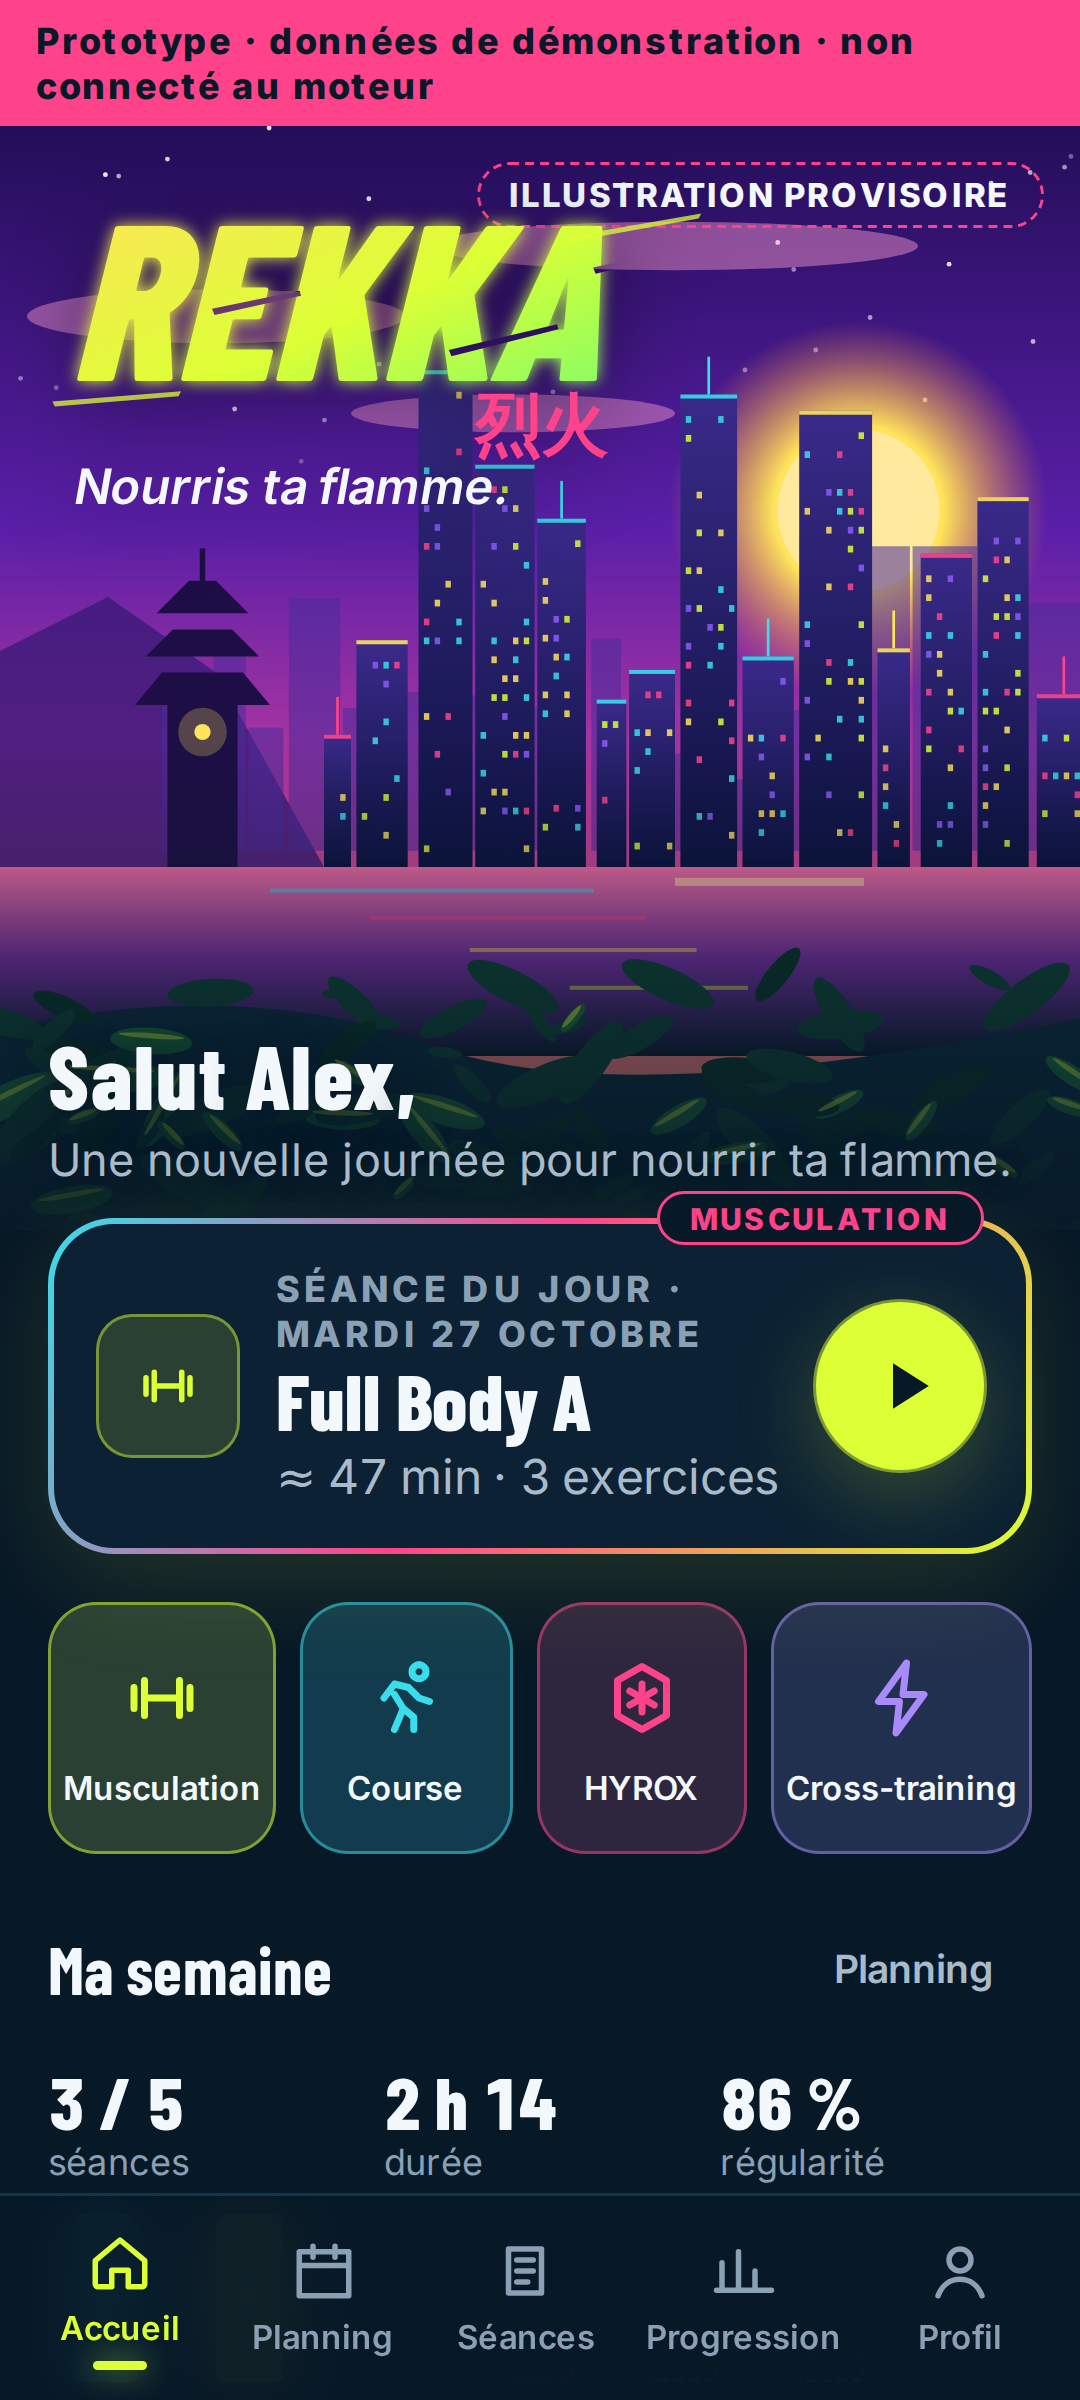
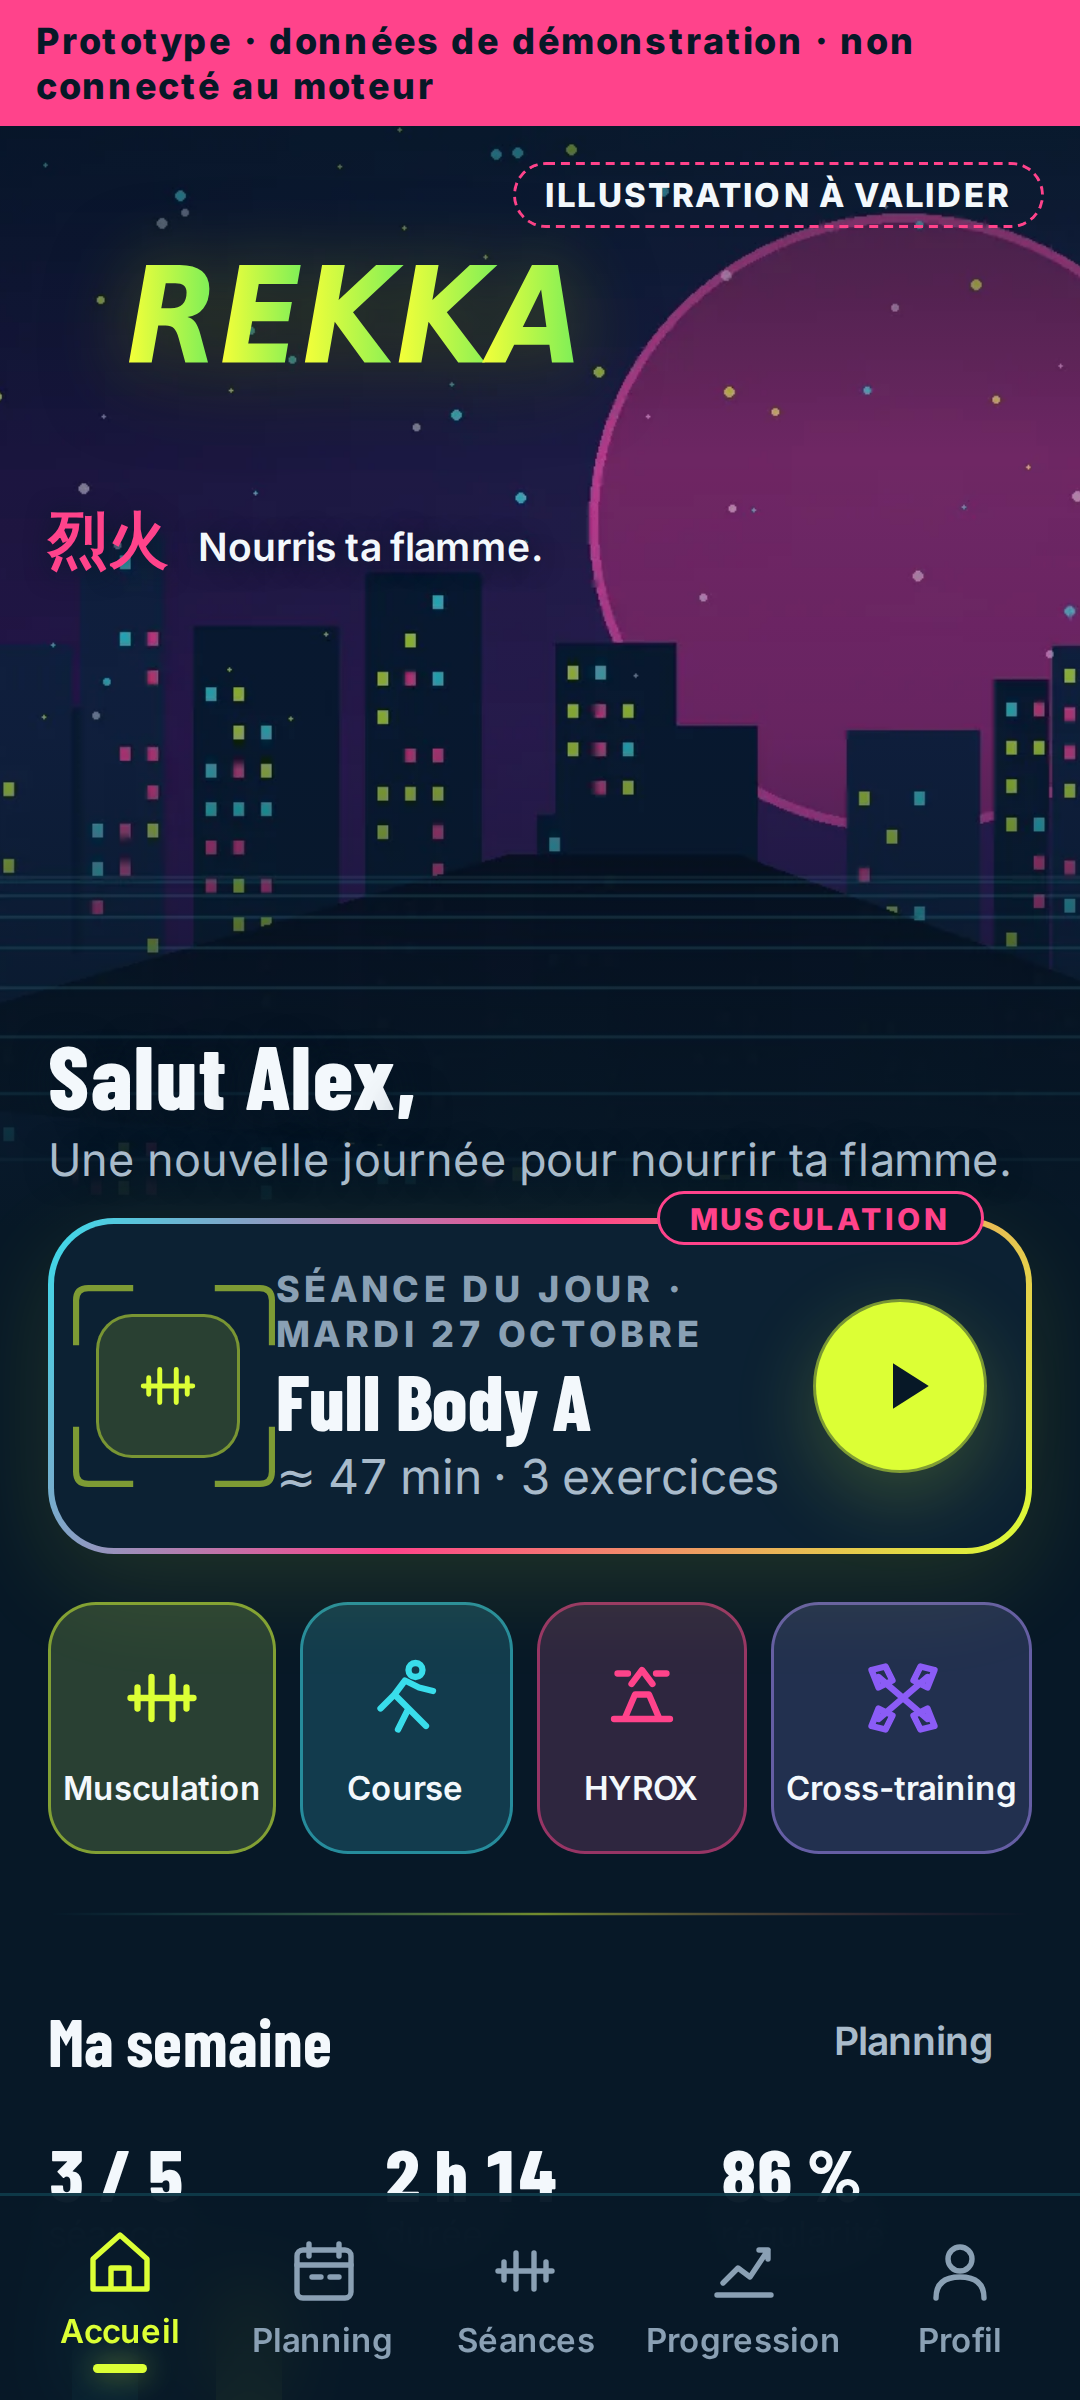
REKKA V2-2B.9 : captures 360/390 avec le kit, bilan d'intégration des assets (intégrés / non intégrés / à valider), écarts avec la planche, vérifications, ouverture sur Android
Claude-Session: https://claude.ai/code/session_01FT1pGqExFGTooyedVrCs5F

diff --git a/docs/kairo/REKKA-V2.md b/docs/kairo/REKKA-V2.md
@@ -309,3 +309,84 @@ Les visuels définitifs doivent être **originaux** : aucune reprise d'Edgerunne
 | `v2-{360,390}-08-profil.png` | Profil |
 
 **Arrêt :** aucune publication, aucune intégration dans l'application, RC5.4 non repris. J'attends votre retour visuel.
+
+## V2-2B (suite) — Intégration du kit `REKKA_V2_ASSETS`
+
+- **Source :** archive `REKKA_V2_ASSETS.zip`, avec `README`, `INTEGRATION_CLAUDE.md` et `PROMPT_CLAUDE.md`. La planche de `references/` est la référence artistique officielle.
+- **Règle appliquée :** les écrans restent de **vrais composants React/CSS**. Les PNG de référence ne sont ni copiés dans le dépôt ni affichés. Aucune image ne contient de texte ou d'interface.
+- **Garanties :**
+  - moteurs, contrats de données, RC5.3 et RC5.4 intacts ;
+  - BÊTA et production inchangées, aucun déploiement ;
+  - thème historique par défaut, V2 seulement avec `VITE_REKKA_THEME=v2` ou le prototype.
+- **Les captures `docs/kairo/captures/v2-2b/` montrent désormais l'état avec le kit.** Les tableaux « Inventaire » et « Écarts » ci-dessus décrivent l'état antérieur ; l'état courant est décrit ci-dessous.
+
+### Commits
+
+| Commit | Sous-lot | Contenu |
+|---|---|---|
+| `516bfe4` | V2-2B.6 Assets | Kit copié dans `apps/kairo/src/assets/rekka-v2/`, avec un `README` de provenance. Module unique `src/design/assets.tsx` (`Logo`, `MaskIcon`, `ArtImage`, `NAV_ICONS`, `UI_ICONS`, `BADGES`, `DECORATIONS`, `ART`). Pictogrammes de discipline du kit. Test d'inventaire et de sûreté des SVG. |
+| `df46c99` | V2-2B.7 Écrans | Détail ci-dessous. Scène vectorielle et logo provisoires supprimés. |
+| `9a6efd1` | V2-2B.8 Tests et page autonome | Tests DOM et E2E adaptés **sans retrait d'assertion de fond** : chaque assertion « provisoire » est remplacée par une vérification de l'asset réel. Build `PROTO_SINGLE=1` qui intègre les images. |
+
+Détail de V2-2B.7 :
+- **Accueil :**
+  - bandeau `accueil-cyberpunk`, avec voile et fond dégradé de repli ;
+  - logo SVG ;
+  - 烈火 en **texte** avec une police CJK, `lang="ja"` ;
+  - devise en HTML.
+- **Planning, Progression, Profil :** en-têtes `objectifs-rpg`.
+- **Séance :** bandeau `bilan-performance` ; chrono, pause et validation du kit.
+- **Navigation :** 5 pictogrammes du kit en masque `currentColor`.
+- **Badges :** badges du kit ; verrouillé = grisé **et** « À venir » écrit.
+- **Décorations :** cadre d'angle autour du pictogramme du jour, séparateur néon.
+- **Progression :** filtres défilables avec accroche, fondu et cibles de 44 px.
+
+### Assets : intégrés / non intégrés / à valider
+
+| Asset du kit | Statut | Où / pourquoi |
+|---|---|---|
+| `logos/rekka-logo-primary.svg` | **Intégré, forme à valider** | Accueil, via `Logo` : point unique de remplacement. Le dessin est une capitale italique grasse vectorisée, **pas le trait au pinceau de la planche**. |
+| `logos/rekka-logo-white.svg`, `rekka-logo-dark.svg` | Disponibles, non affichés | Exposés par `Logo variant` ; aucun écran du prototype n'en a besoin |
+| `logos/rekka-mark.svg` | **Non intégré, à valider** | Se lit comme un « P » à petite taille. **L'icône PWA publiée n'est pas modifiée.** |
+| `logos/rekka-kanji-symbol.svg` | **Non intégré** | Interprétation stylisée qui **ne se lit pas comme 烈火**. Le texte exact est affiché en police CJK. |
+| `icons/sports/*.svg` (4) | **Intégré** | `SportIcon` partout ; nom accessible conservé |
+| `icons/navigation/` accueil, planning, séances, progression, profil | **Intégré** | Barre d'onglets, masque `currentColor` |
+| `icons/navigation/` chrono, pause, check, record | **Intégré** | Séance (chronomètre, pause, repos, validation), titre « Records confirmés » |
+| `badges/*.svg` (4) | **Intégré** (3 affichés) | Jalons et onglet Badges. En production : **seulement sur données réelles vérifiées**. `premiere-seance` est disponible mais n'a pas de jalon de démonstration. |
+| `decorations/corner-frame.svg`, `neon-divider.svg` | **Intégré** | Opacité ≤ 0,6, `pointer-events: none`, jamais sur un texte ni une commande (vérifié en E2E) |
+| `decorations/grid-pattern.svg`, `quest-progress.svg` | **Non intégré** | Trame : gêne la lisibilité des cartes denses. Barre de quête : aucun écran de quête dans ce lot. |
+| `illustrations/accueil-cyberpunk.webp` | **Intégré, à valider** | Bandeau d'Accueil, étiquette « Illustration à valider » |
+| `illustrations/objectifs-rpg.webp` | **Intégré, à valider** | En-têtes Planning, Progression, Profil |
+| `illustrations/bilan-performance.webp` | **Intégré, à valider** | Bandeau de Séance et en-tête Séances |
+| `palette.json` | Copié | Conforme aux jetons `--r-*` du lot V2-1 |
+| `references/*.png` | **Non copiés** | Références visuelles uniquement |
+
+**Les trois illustrations ne sont pas déclarées finales.** Leur rendu est plat et géométrique : lune, immeubles en blocs, montagnes, anneau. Elles n'ont **ni personnage ni rendu anime**, contrairement à l'univers validé. Elles posent une ambiance correcte mais ne remplacent pas les peintures de la planche.
+
+### Écarts restants avec la planche
+
+| Écran | Écart |
+|---|---|
+| Accueil | Pas de personnage. Logo non calligraphié. 烈火 et la devise en typographie, sans écriture manuscrite. |
+| Planning | Bandeau d'ambiance au lieu du paysage détaillé. Le reste est conforme : légende supprimée, états écrits, liste et grille. |
+| Séance | Bandeau d'illustration ajouté (absent de la maquette), sous un voile ; mention « simulation » conservée. |
+| Progression | Conforme dans sa structure ; jalons ajoutés sous les records. |
+| Profil | Avatar provisoire (initiale). Pas de « Niveau 28 » ni d'XP, volontairement. Visuels « Mes disciplines » = pictogrammes. |
+
+### Vérifications
+
+| Vérification | Résultat |
+|---|---|
+| E2E prototype 360 et 390 px | **92 vérifications OK**, dont :<br>• logo SVG et WebP chargés ;<br>• aucune image PNG ni capture ;<br>• décorations sans capture des touchers ;<br>• bouton principal non masqué ;<br>• onglets ≥ 44 px ;<br>• filtres défilables ≥ 44 px ;<br>• badge verrouillé grisé et écrit ;<br>• série en cours visible au-dessus du repos ;<br>• aucun défilement horizontal ;<br>• aucune requête externe, aucun stockage, aucune erreur |
+| Tests DOM et assets | 17 / 17 : isolation, assets réels, 烈火 en texte, badges, sûreté des SVG (ni script, ni `href`, ni URL externe), WebP ≤ 150 Ko |
+| Page autonome (`pnpm proto:single`, 561 Ko) en `file://` | 0 erreur, 0 requête réseau, polices et images chargées |
+| E2E de l'application (thème historique) | ✓ 303 vérifications |
+| `pnpm check` | ✓ 3 024 tests réussis, 2 ignorés, 0 échec |
+
+### Ouvrir le prototype sur Android
+
+1. Télécharger `rekka-v2-prototype.html`, un fichier unique sans dépendance.
+2. L'ouvrir avec Chrome. Depuis « Fichiers », faire « Ouvrir avec → Chrome ». Si Chrome ne propose pas le fichier, saisir `file:///sdcard/Download/rekka-v2-prototype.html` dans la barre d'adresse.
+3. Tout fonctionne hors ligne. Rien n'est enregistré : un rechargement remet la démonstration à zéro.
+
+**Arrêt après V2-2B.** Aucune intégration dans l'application, aucune publication. RC5.4 n'est pas repris.
